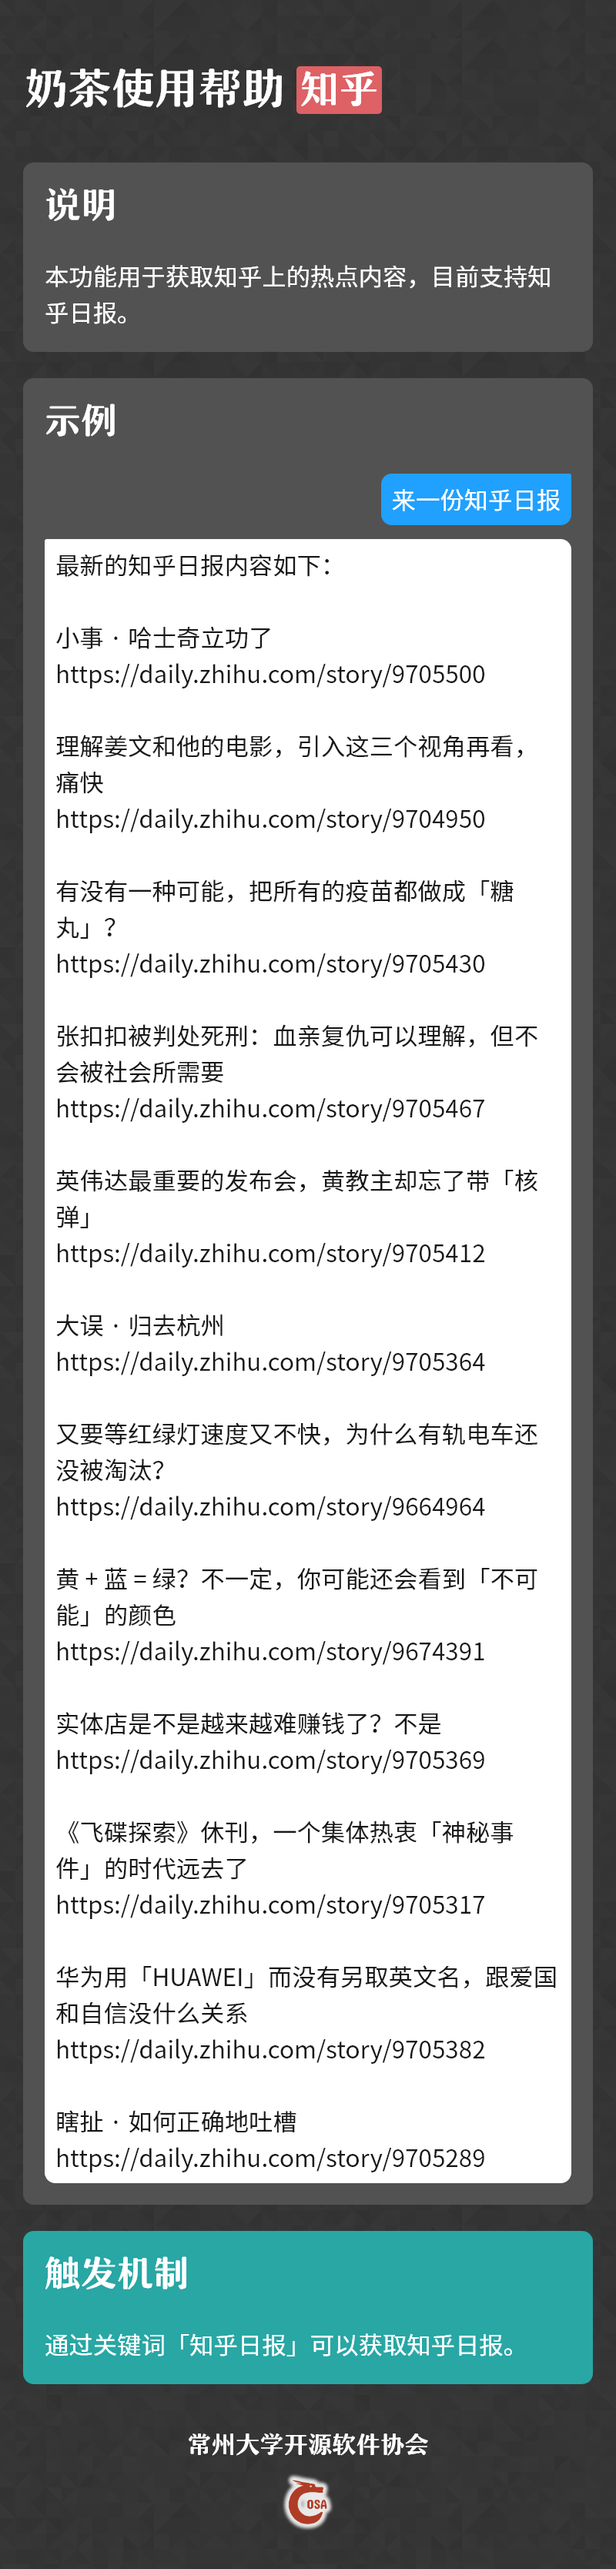
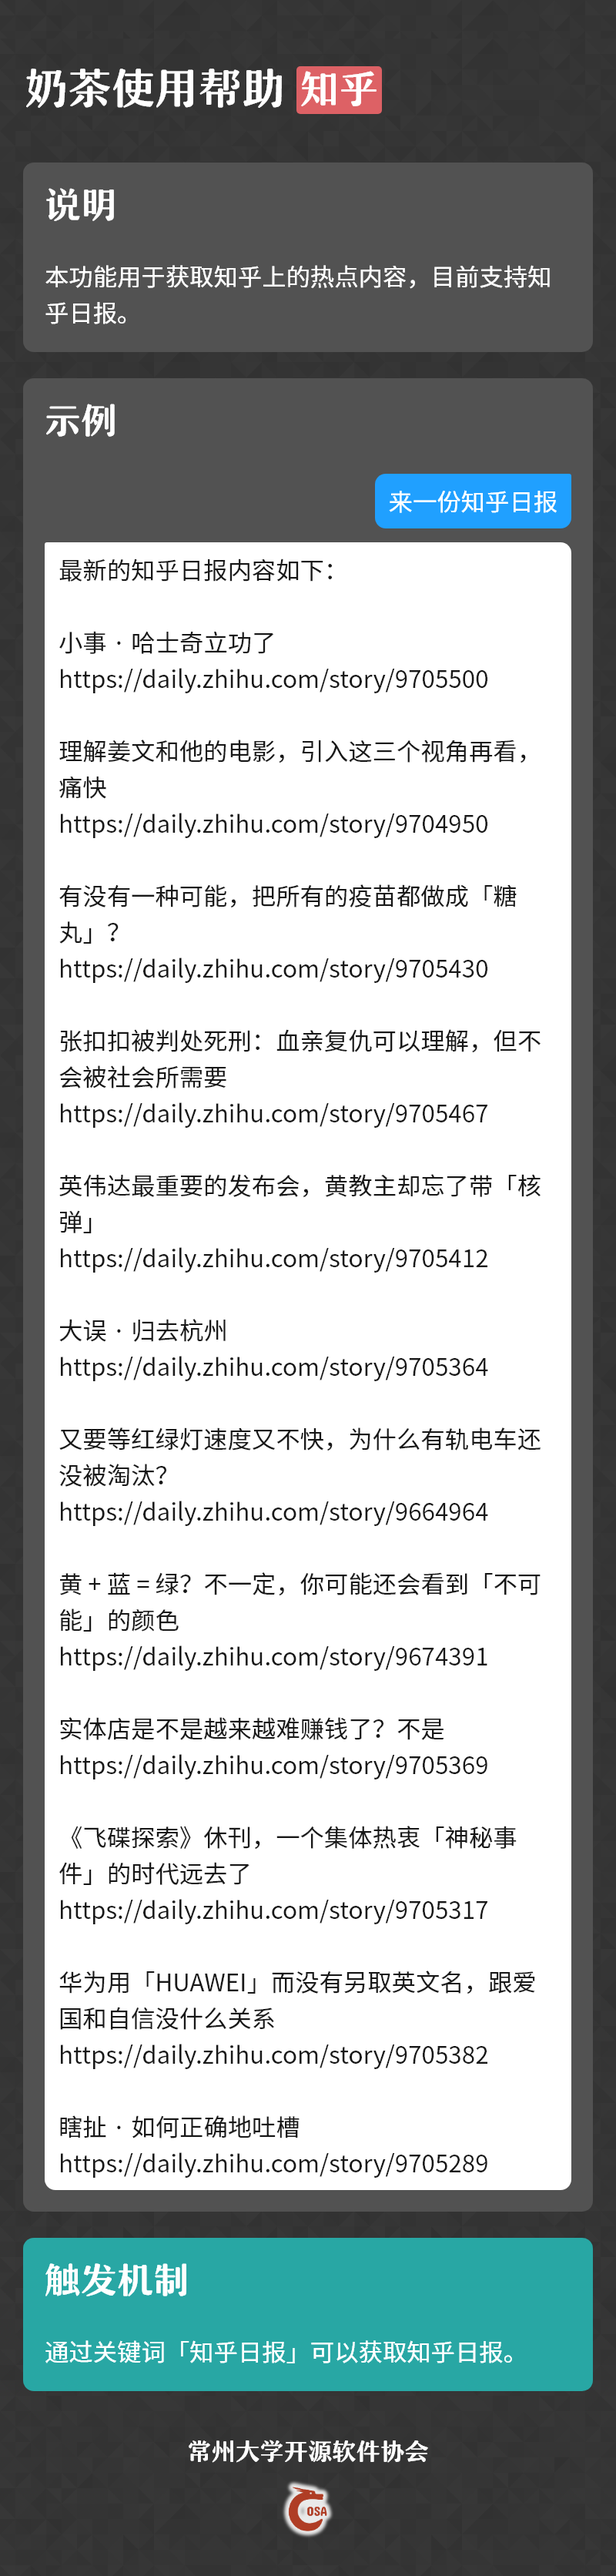
更新使用帮助

diff --git a/manual/Bilibili.html b/manual/Bilibili.html
@@ -1,0 +1,103 @@
+<h1>Bilibili</h1>
+
+<section>
+  <h2>说明</h2>
+  <p>
+    本功能用于查询 Bilibili 上的动漫更新。
+  </p>
+</section>
+
+<section>
+  <h2>示例</h2>
+  <div class="bubble-wrapper right">
+    <div class="bubble">
+      <p>
+        最近有什么新番
+      </p>
+    </div>
+  </div>
+  <div class="bubble-wrapper left">
+    <div class="bubble">
+      <p>
+        2019年1月番剧<br>
+        按追番人数排序，前20部如下：<br>
+        <br>
+        五等分的新娘 更新至第2话<br>
+        ……
+      </p>
+    </div>
+  </div>
+  <div class="bubble-wrapper right">
+    <div class="bubble">
+      <p>
+        18年7月有啥动漫
+      </p>
+    </div>
+  </div>
+  <div class="bubble-wrapper left">
+    <div class="bubble">
+      <p>
+        2018年7月番剧<br>
+        按追番人数排序，前20部如下：<br>
+        <br>
+        工作细胞 全14话<br>
+        ……
+      </p>
+    </div>
+  </div>
+  <div class="bubble-wrapper right">
+    <div class="bubble">
+      <p>
+        约会大作战什么时候更新呀
+      </p>
+    </div>
+  </div>
+  <div class="bubble-wrapper left">
+    <div class="bubble">
+      <p>
+        约会大作战 第三季<br>
+        <br>
+        已在1月18日22:00更新第2话<br>
+        将在1月25日22:00更新第3话
+      </p>
+    </div>
+  </div>
+  <div class="bubble-wrapper right">
+    <div class="bubble">
+      <p>
+        梦幻岛今天更新了吗！
+      </p>
+    </div>
+  </div>
+  <div class="bubble-wrapper left">
+    <div class="bubble">
+      <p>
+        没更新
+      </p>
+    </div>
+  </div>
+  <div class="bubble-wrapper right">
+    <div class="bubble">
+      <p>
+        刀剑神域明天会更新嘛
+      </p>
+    </div>
+  </div>
+  <div class="bubble-wrapper left">
+    <div class="bubble">
+      <p>
+        将在00:30更新第15话
+      </p>
+    </div>
+  </div>
+</section>
+
+<section class="bg-color-3">
+  <h2>触发机制</h2>
+  <p>
+    可通过多种方式触发，请参考上面的示例。
+  </p>
+</section>
+
+<link rel="stylesheet" href="css/style.css">
+<script src="js/genpage.js"></script>

diff --git a/manual/index.html b/manual/index.html
@@ -21,9 +21,11 @@
 <section>
   <h2>功能列表</h2>
   <p>
+    Bilibili <span class="author">by 钱宇超</span><br>
     Pastebin <span class="author">by 钱宇超</span><br>
     一言 <span class="author">by 钱宇超</span><br>
     公式 <span class="author">by 钱宇超</span><br>
+    复读机 <span class="author">by 钱宇超</span><br>
     智能聊天 <span class="author">by 钱宇超</span><br>
     知乎 <span class="author">by 钱宇超</span><br>
     笔记本 <span class="author">by 钱宇超</span><br>

diff --git a/manual/复读机.html b/manual/复读机.html
@@ -1,0 +1,18 @@
+<h1>复读机</h1>
+
+<section>
+  <h2>说明</h2>
+  <p>
+    本功能用于复读群成员的话。
+  </p>
+</section>
+
+<section>
+  <h2>触发机制</h2>
+  <p>
+    奶茶开心的时候就会复读。
+  </p>
+</section>
+
+<link rel="stylesheet" href="css/style.css">
+<script src="js/genpage.js"></script>

diff --git a/manual/css/style.css b/manual/css/style.css
@@ -145,7 +145,7 @@ main section .author {
     align-items: flex-end;
     word-wrap: break-word;
     word-break: break-all;
-    padding: 10px 14px;
+    padding: 12px 18px;
     border-top-left-radius: 3px;
     border-top-right-radius: 14px;
     border-bottom-right-radius: 14px;

diff --git a/amadeus/plugins/repeater.py b/amadeus/plugins/repeater.py
@@ -6,6 +6,8 @@ import nonebot.permission as perm
 from nonebot import on_natural_language, NLPSession, NLPResult
 from nonebot.helpers import context_id
 
+__plugin_name__ = '复读机'
+
 
 @dataclass
 class Record:

diff --git a/amadeus/plugins/bilibili/__init__.py b/amadeus/plugins/bilibili/__init__.py
@@ -1,5 +1,7 @@
 from nonebot import CommandGroup
 
+__plugin_name__ = 'Bilibili'
+
 cg = CommandGroup('bilibili_anime')
 
 from . import index, timeline, nlp
